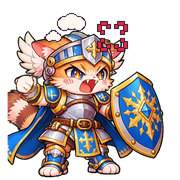
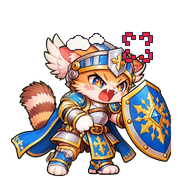
Angry emoji: add the opening stomp
Uses the stomp from the start of the Kling clip (frames 1-12, skipping
4-7 where the face calms), then the rage part (15-39), then back, so
the foot lifts and stomps again every loop. Jolt and short hold on the
landing frame. 20 frames, 2 s per loop x 2 = 4 s, 250 KB.

Claude-Session: https://claude.ai/code/session_01CqN5TM8CtnKZx6KMXb1z93

diff --git a/line-stickers/animated-emoji/19-angry/make_angry.py b/line-stickers/animated-emoji/19-angry/make_angry.py
@@ -1,14 +1,18 @@
-"""Angry emoji: Kling rage clip played forward and back, plus pixel-art steam,
-a pulsing anger mark and a small tremble."""
+"""Angry emoji: stomp from the start of the Kling clip, then the rage part, then back
+(so the foot lifts and stomps again each loop), plus pixel-art steam, a pulsing
+anger mark, a jolt on the stomp and a small tremble."""
 import sys, os
 import numpy as np
 from PIL import Image, ImageDraw
-CUT, OUT = sys.argv[1], sys.argv[2]            # folder of 18 green-removed frames (ping-pong order), output folder
-N, W = 18, 540                                  # frames, working canvas (3x of 180)
+CUT, OUT = sys.argv[1], sys.argv[2]            # folder of green-removed frames in play order, output folder
+N, W = len(os.listdir(CUT)), 540                # frames, working canvas (3x of 180)
+IMPACT = 6                                      # frame where the foot lands
+# per-frame timing: hold the start pose and the stomp, quick foot swing, scaled to a 2 s loop
+RAW = [140, 70, 70, 55, 45, 45, 160] + [95]*7 + [80]*4 + [70]*2
 INK, RED, STEAM = (42, 26, 58, 255), (240, 36, 56, 255), (250, 246, 240, 255)
 frames = [Image.open(f"{CUT}/{k:02d}.png") for k in range(N)]
-box = (0, 80, 960, 948)                         # union bbox of the clip
-s = 0.52
+box = (0, 30, 960, 948)                         # union bbox of the frames used
+s = 0.5
 cw, ch = round((box[2]-box[0])*s), round((box[3]-box[1])*s)
 cx, cy = (W-cw)//2, W-6-ch                      # room above the head for the effects
 
@@ -54,15 +58,17 @@ def steam(g, x, y, age):
 out = []
 for k, f in enumerate(frames):
     j = 3 if k % 2 else 0                       # 1px tremble on the 180 grid
+    jy = {IMPACT: 6, IMPACT+1: -3}.get(k, 0)    # jolt when the foot lands
+    if k == IMPACT: j = -6
     c = Image.new('RGBA', (W, W), (0, 0, 0, 0))
     m = f.crop(box).convert('RGBa').resize((cw, ch), Image.LANCZOS).convert('RGBA')
-    c.alpha_composite(m, (cx + j, cy))
-    hx, hy = head(f); hx = round(hx + j/3); hy = round(hy)
+    c.alpha_composite(m, (cx + j, cy + jy))
+    hx, hy = head(f); hx = round(hx + j/3); hy = round(hy + jy/3)
     lo = Image.new('RGBA', (W//3, W//3), (0, 0, 0, 0)); g = ImageDraw.Draw(lo)
-    for start, dx, dy in ((0, -30, -10), (3, -12, -18)):     # two puffs, 3 frames apart
-        age = (k - start) % 6
-        if age < 5: steam(g, hx+dx, hy+dy, age)
-    anger_mark(g, hx+28, hy-12, big=(k // 3) % 2 == 0)
+    for start, dx, dy in ((0, -30, -10), (2, -12, -18)):     # two puffs, 2 frames apart
+        age = (k - start) % 5
+        steam(g, hx+dx, hy+dy, age)
+    anger_mark(g, hx+28, hy-12, big=(k // 2) % 2 == 0)
     c.alpha_composite(lo.resize((W, W), Image.NEAREST)); out.append(c)
 
 def save(frs, path, durs, loop):
@@ -74,9 +80,10 @@ def save(frs, path, durs, loop):
     q[0].save(path, save_all=True, append_images=q[1:], duration=durs, loop=loop, disposal=0, blend=0, optimize=True)
     print(os.path.basename(path), len(frs), 'frames', sum(durs), 'ms x', loop, os.path.getsize(path)//1024, 'KB')
 
-durs = [56]*10 + [55]*8                         # about 2x the clip's speed, 1 s per loop
+durs = [round(d * 2000 / sum(RAW)) for d in RAW]
+durs[-1] += 2000 - sum(durs)                    # exactly 2 s per loop
 f180 = [o.convert('RGBa').resize((180, 180), Image.LANCZOS).convert('RGBA') for o in out]
 for i, f in enumerate(f180): f.save(f"{OUT}/frames/{i+1:02d}.png")
-save(f180, f"{OUT}/angry.png", durs, 4)
+save(f180, f"{OUT}/angry.png", durs, 2)
 save([o.convert('RGBa').resize((360, 360), Image.LANCZOS).convert('RGBA') for o in out],
      f"{OUT}/preview-angry.png", durs, 0)
